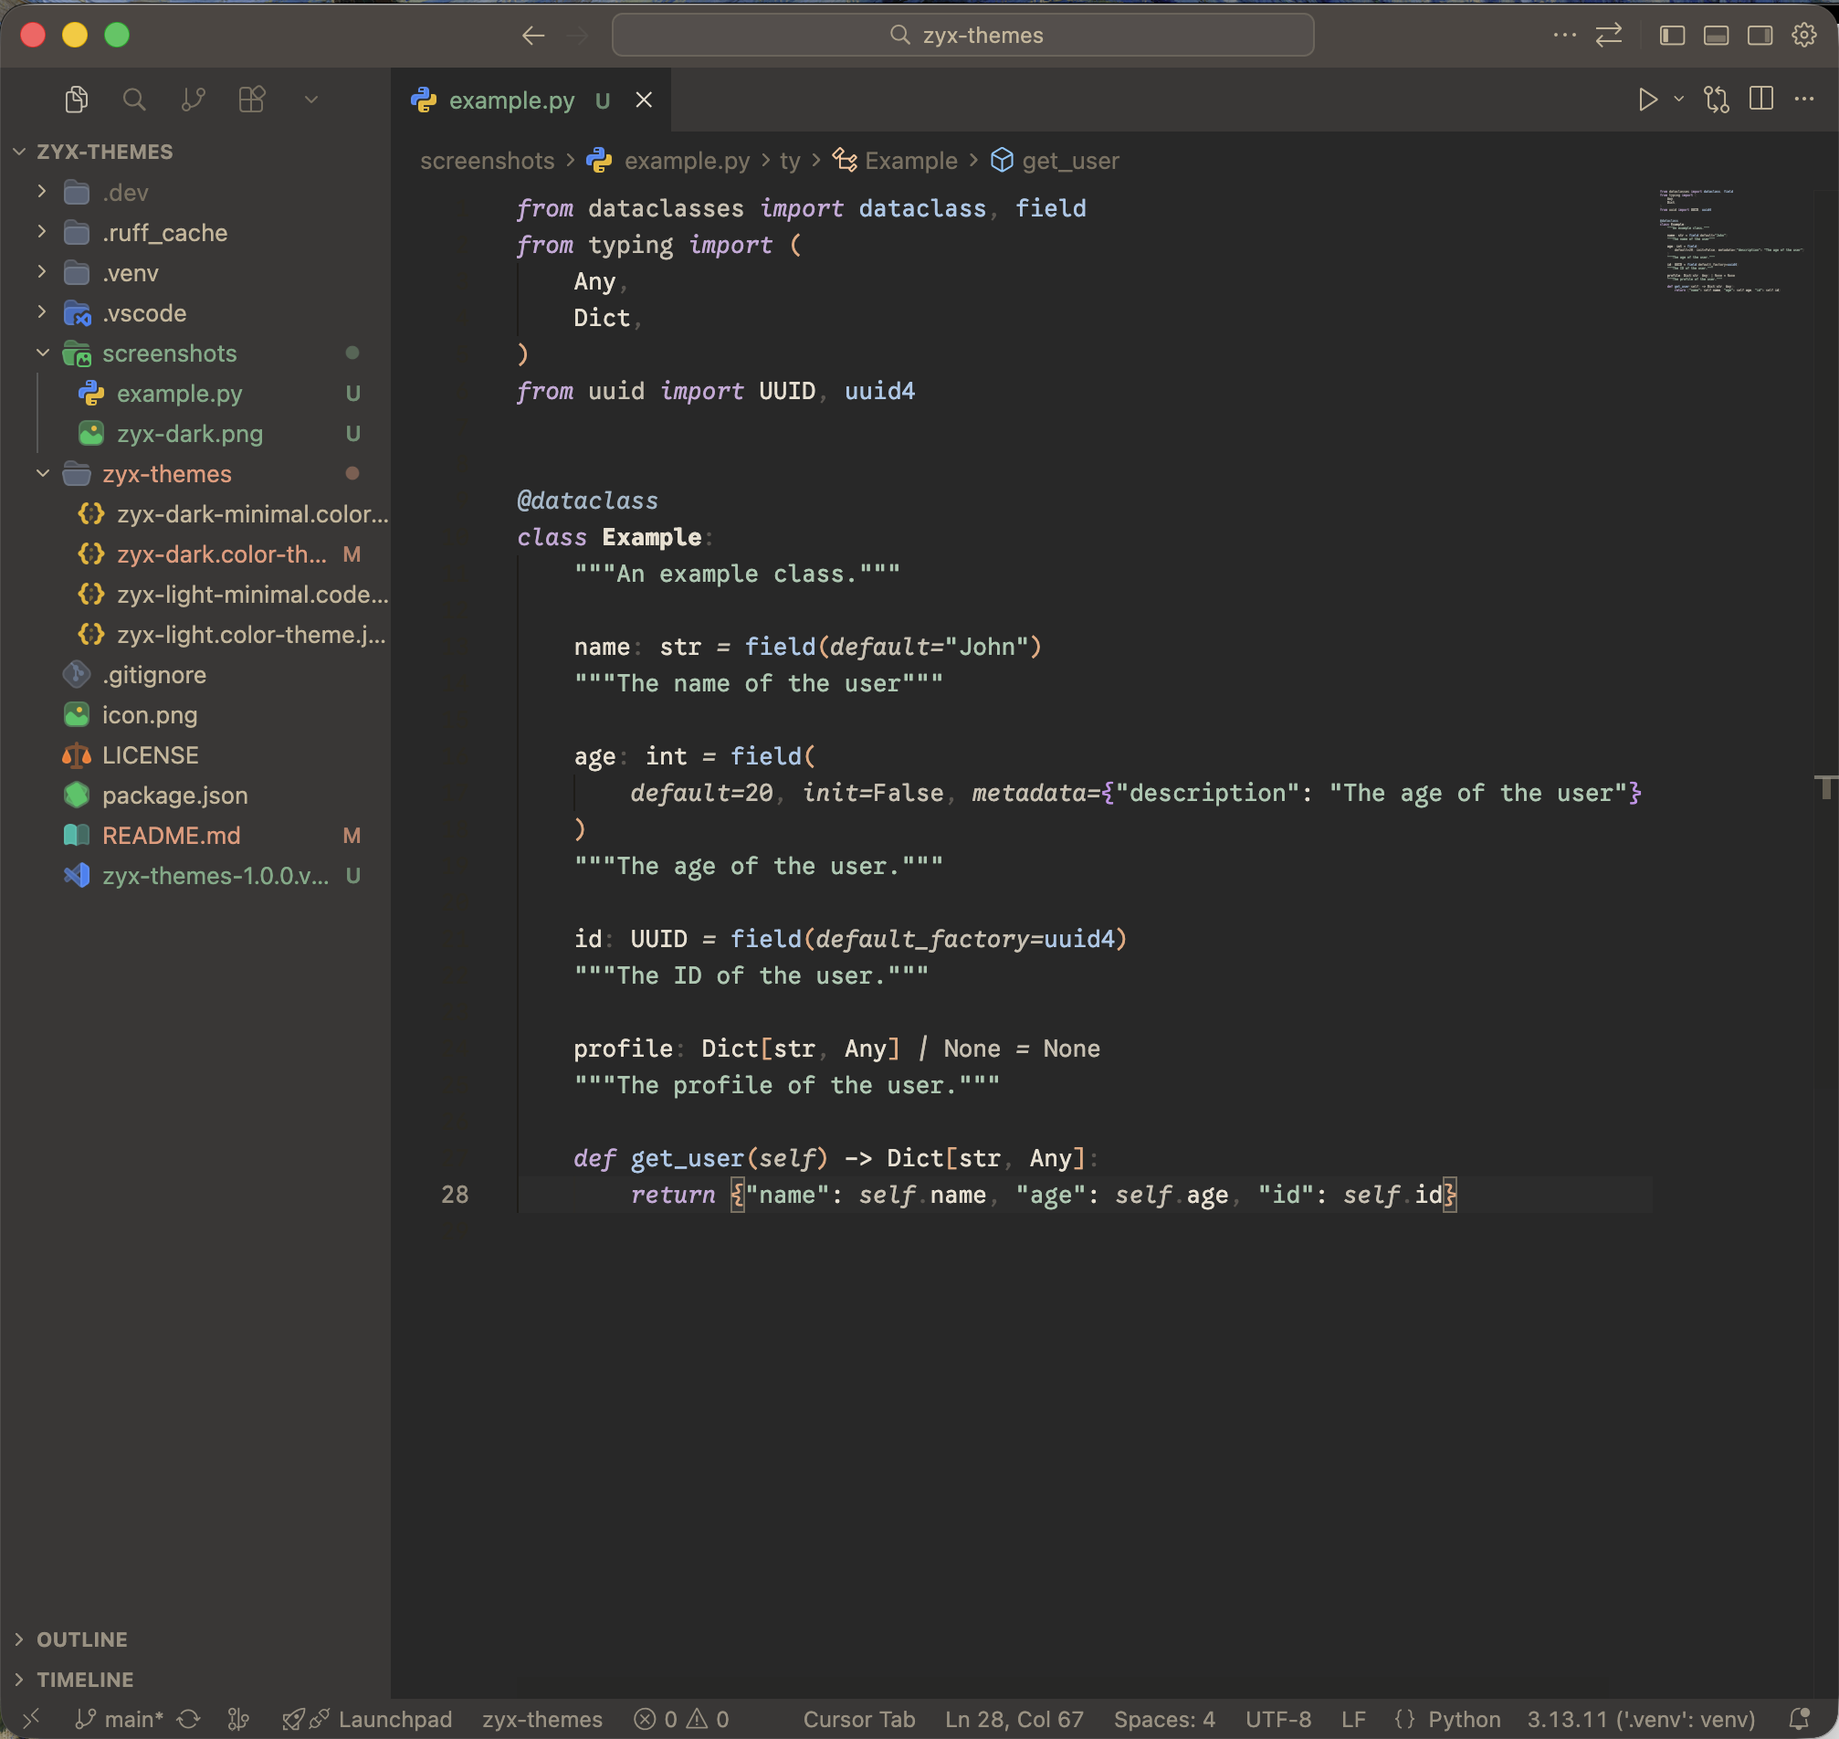
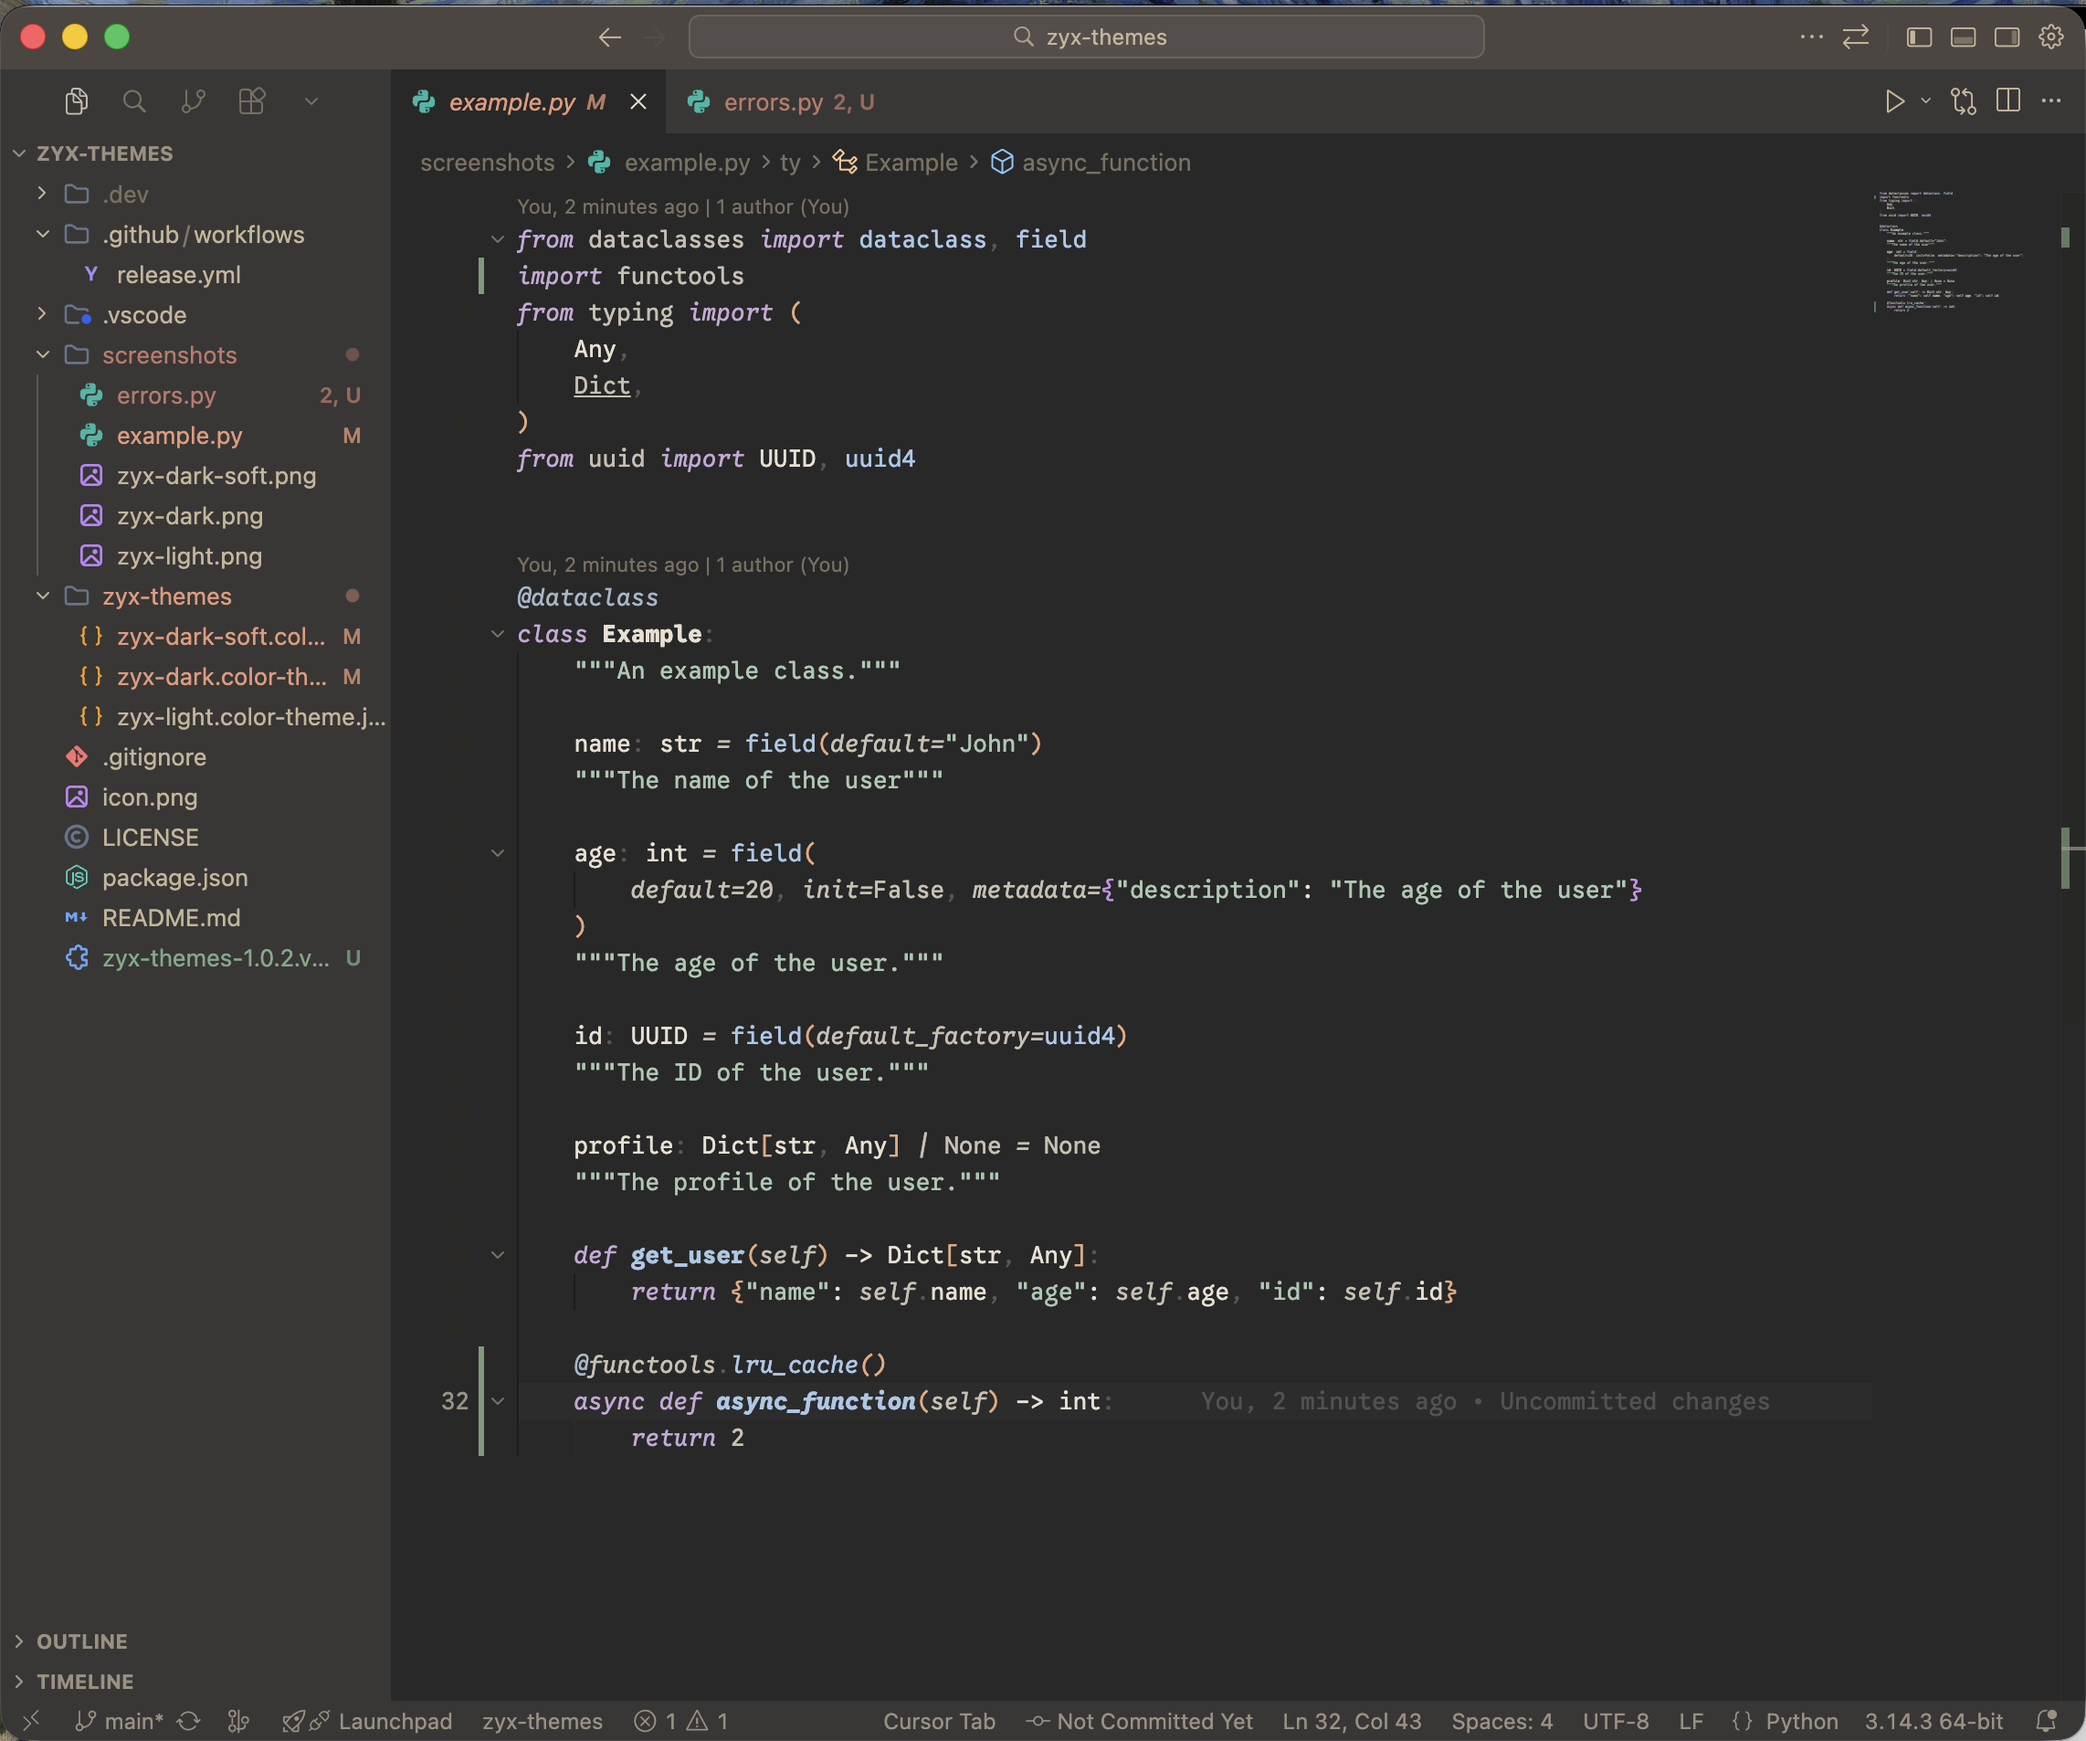
chore: bump version to 1.0.3, update README to include 'Gruvbox' theme reference, and enhance 'zyx-dark-soft' theme settings

diff --git a/screenshots/example.py b/screenshots/example.py
@@ -1,4 +1,5 @@
 from dataclasses import dataclass, field
+import functools
 from typing import (
     Any,
     Dict,
@@ -26,3 +27,7 @@ class Example:
 
     def get_user(self) -> Dict[str, Any]:
         return {"name": self.name, "age": self.age, "id": self.id}
+
+    @functools.lru_cache()
+    async def async_function(self) -> int:
+        return 2

diff --git a/README.md b/README.md
@@ -1,12 +1,14 @@
 # zyx-themes
 
-A set of incredibly minimal, comfortable &amp; descriptive color themes for VSCode/Cursor, based on the `ZED` IDE and `One Dark` code theme.
+A set of incredibly minimal, comfortable &amp; descriptive color themes for VSCode/Cursor, based on the `ZED` IDE and `One Dark` & `Gruvbox` code themes.
 
 ## Introduction
 
 This extension/repository provides the following themes:
 
-
+- **`zyx-dark`**
+- **`zyx-dark-soft`**
+- **`zyx-light`**
 
 ## Screenshots
 
@@ -14,14 +16,10 @@ This extension/repository provides the following themes:
 
 ![zyx-dark](https://github.com/hsaeed3/zyx-themes/blob/main/screenshots/zyx-dark.png?raw=true)
 
-### `zyx-dark-minimal`
+### `zyx-dark-soft`
 
-![zyx-dark-minimal](https://github.com/hsaeed3/zyx-themes/blob/main/screenshots/zyx-dark-minimal.png?raw=true)
+![zyx-dark-soft](https://github.com/hsaeed3/zyx-themes/blob/main/screenshots/zyx-dark-soft.png?raw=true)
 
 ### `zyx-light`
 
 ![zyx-light](https://github.com/hsaeed3/zyx-themes/blob/main/screenshots/zyx-light.png?raw=true)
-
-### `zyx-light-minimal`
-
-![zyx-light-minimal](https://github.com/hsaeed3/zyx-themes/blob/main/screenshots/zyx-light-minimal.png?raw=true)
